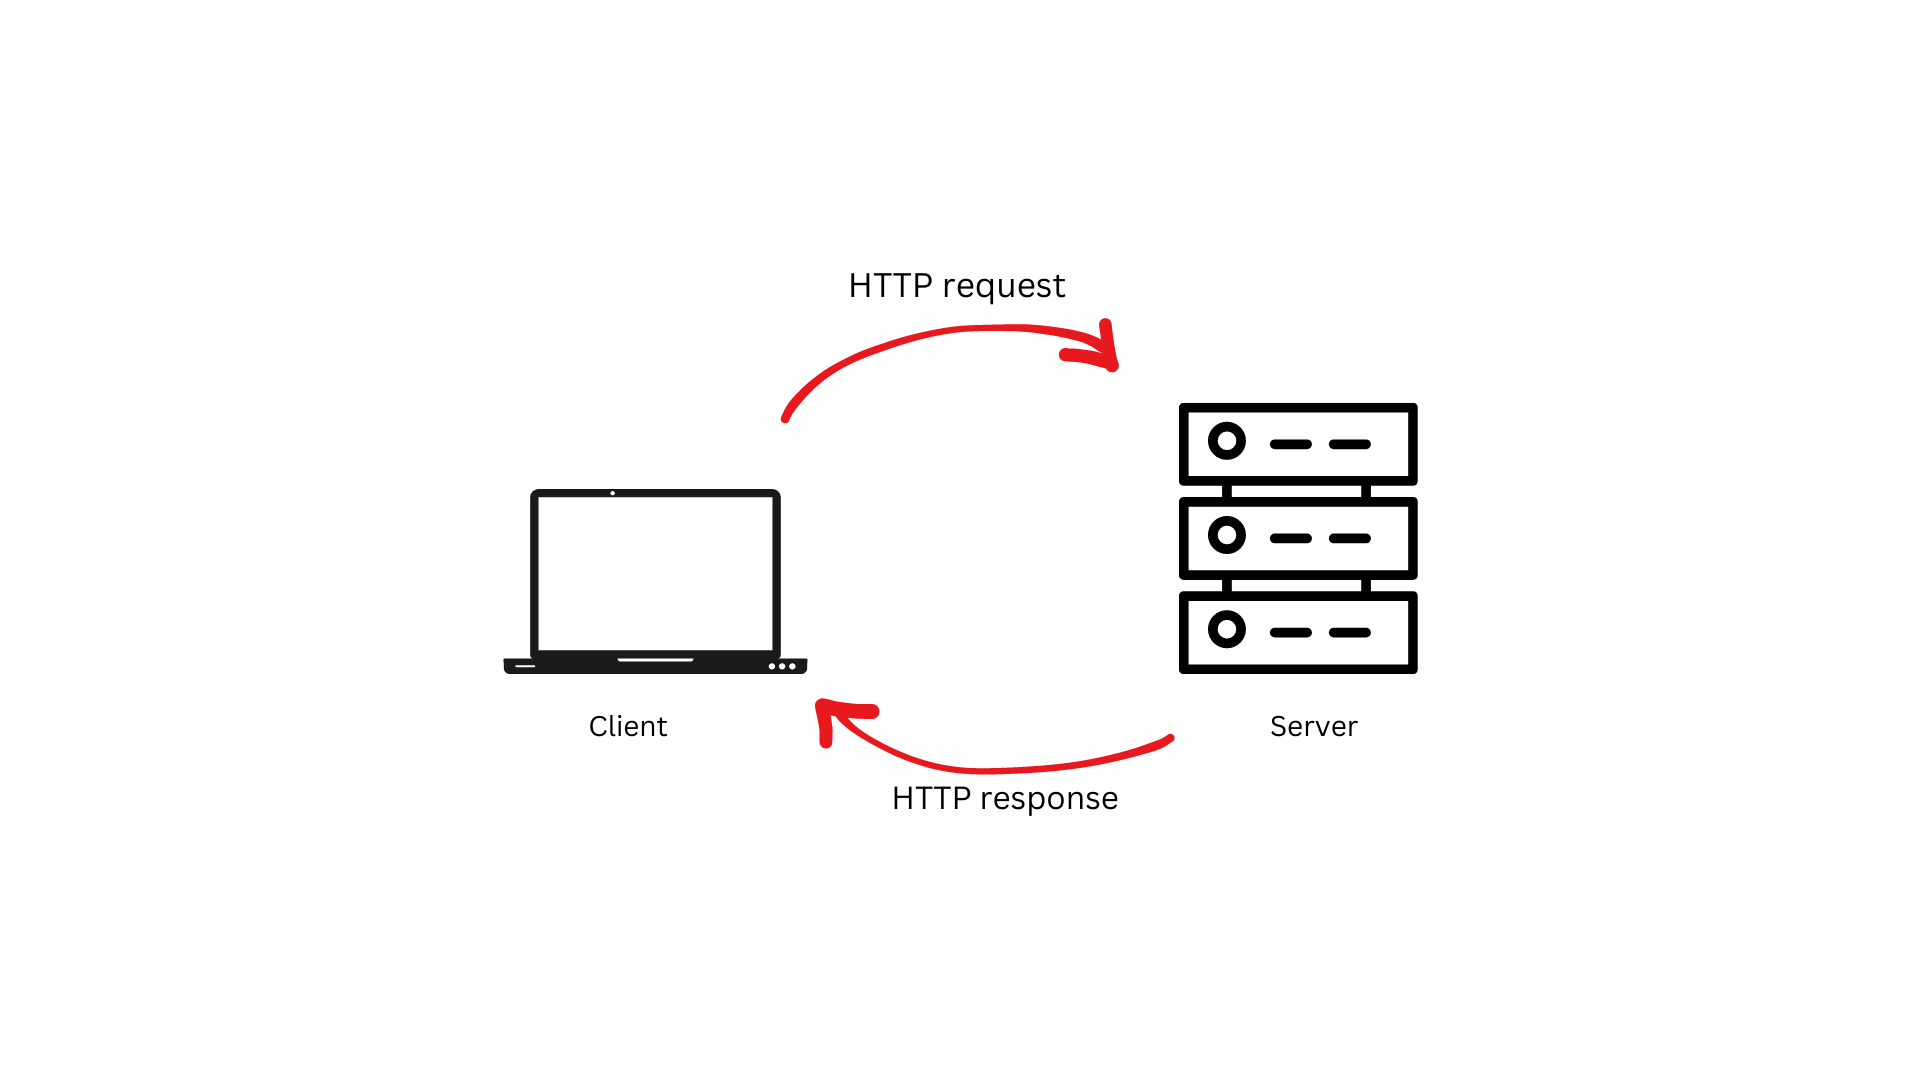
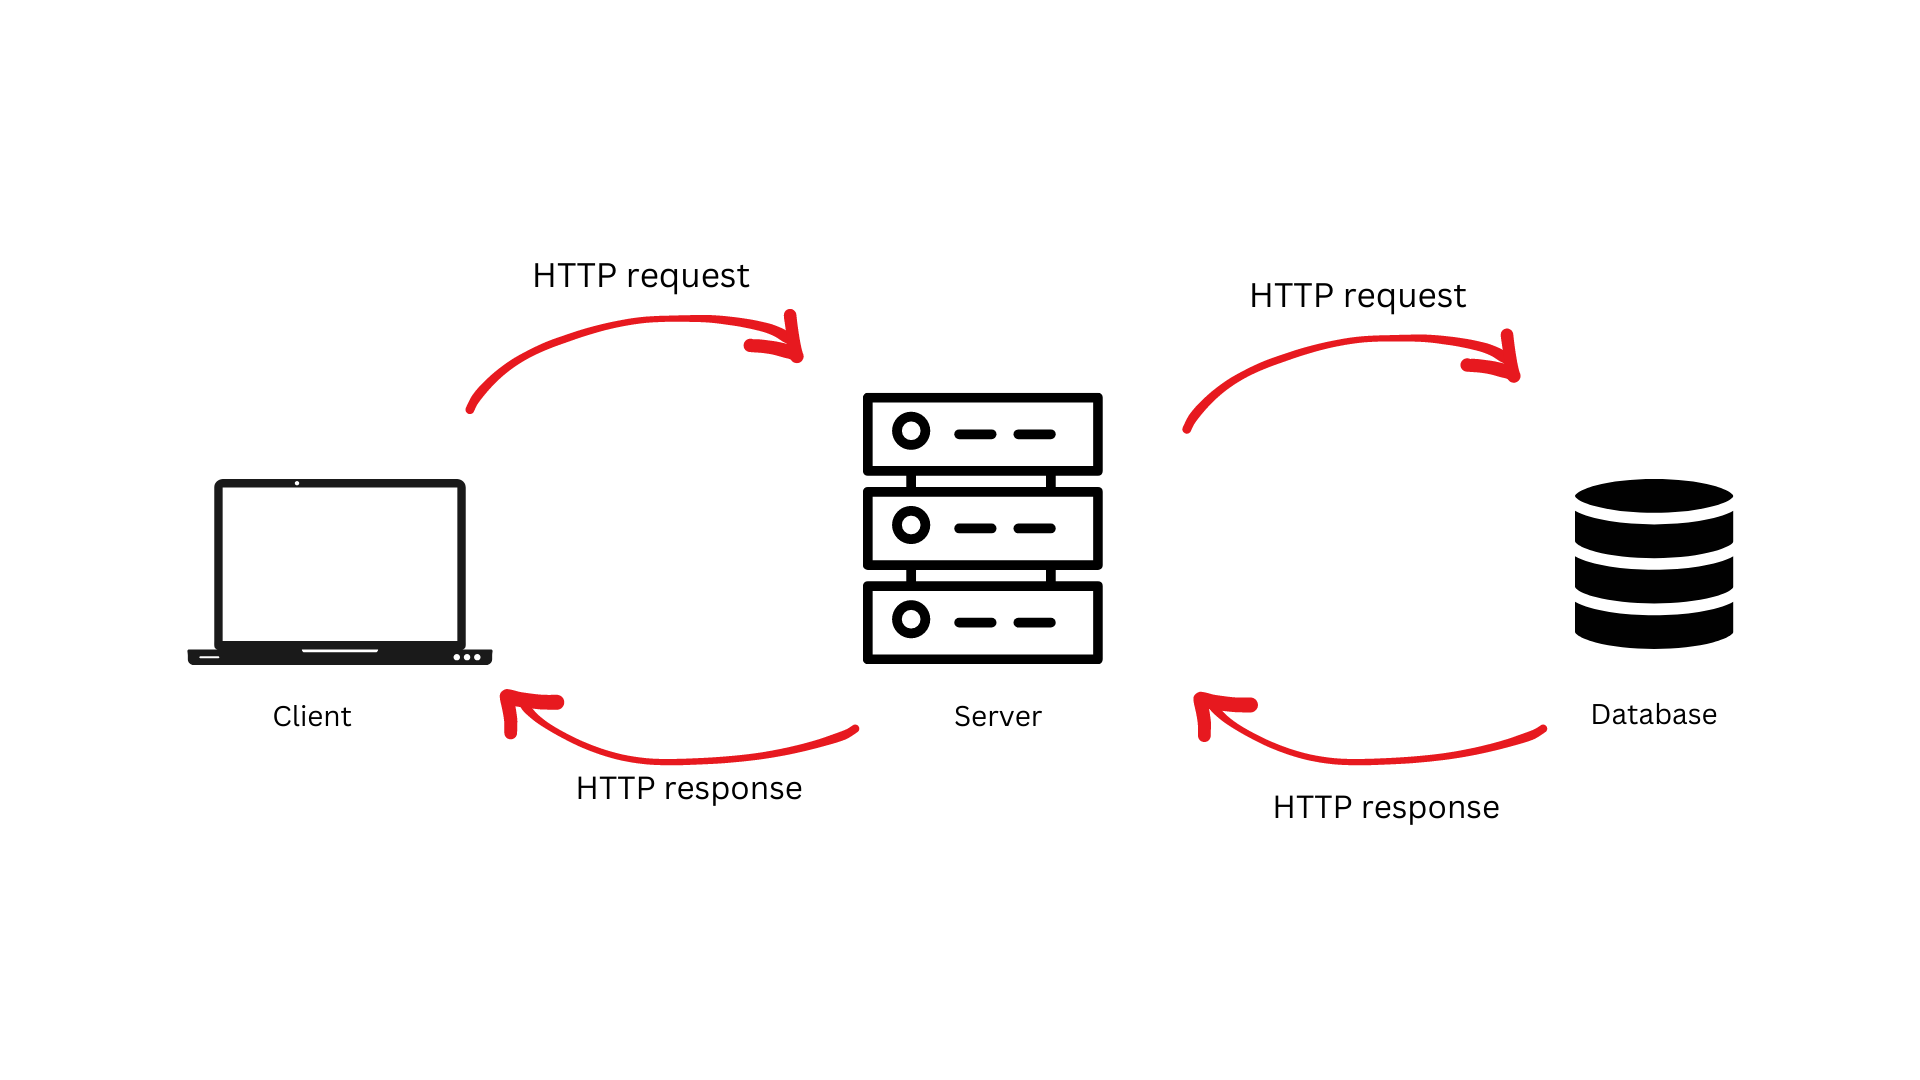
database

diff --git a/README.md b/README.md
@@ -32,3 +32,5 @@
 
 
 - The app has an error handling route for status 500 and 404
+
+- The app is connected to database
